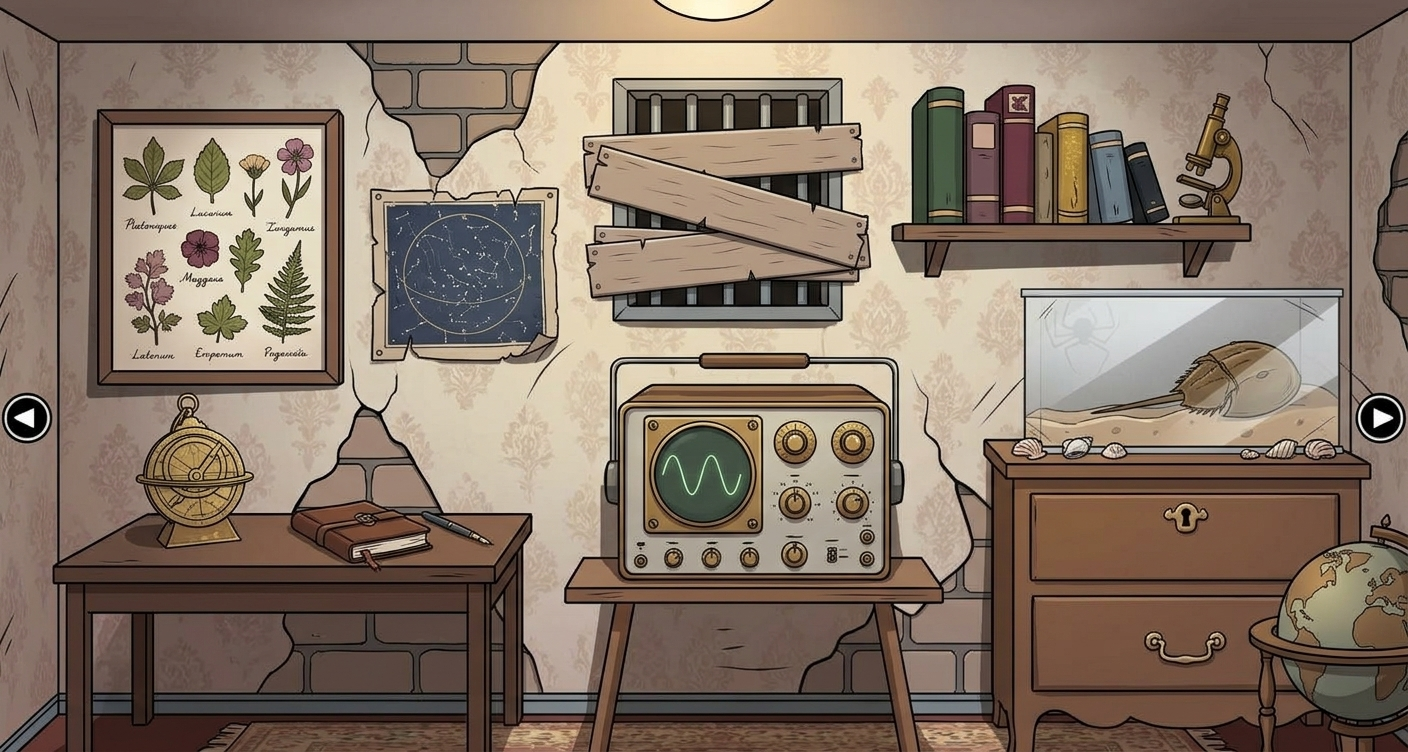
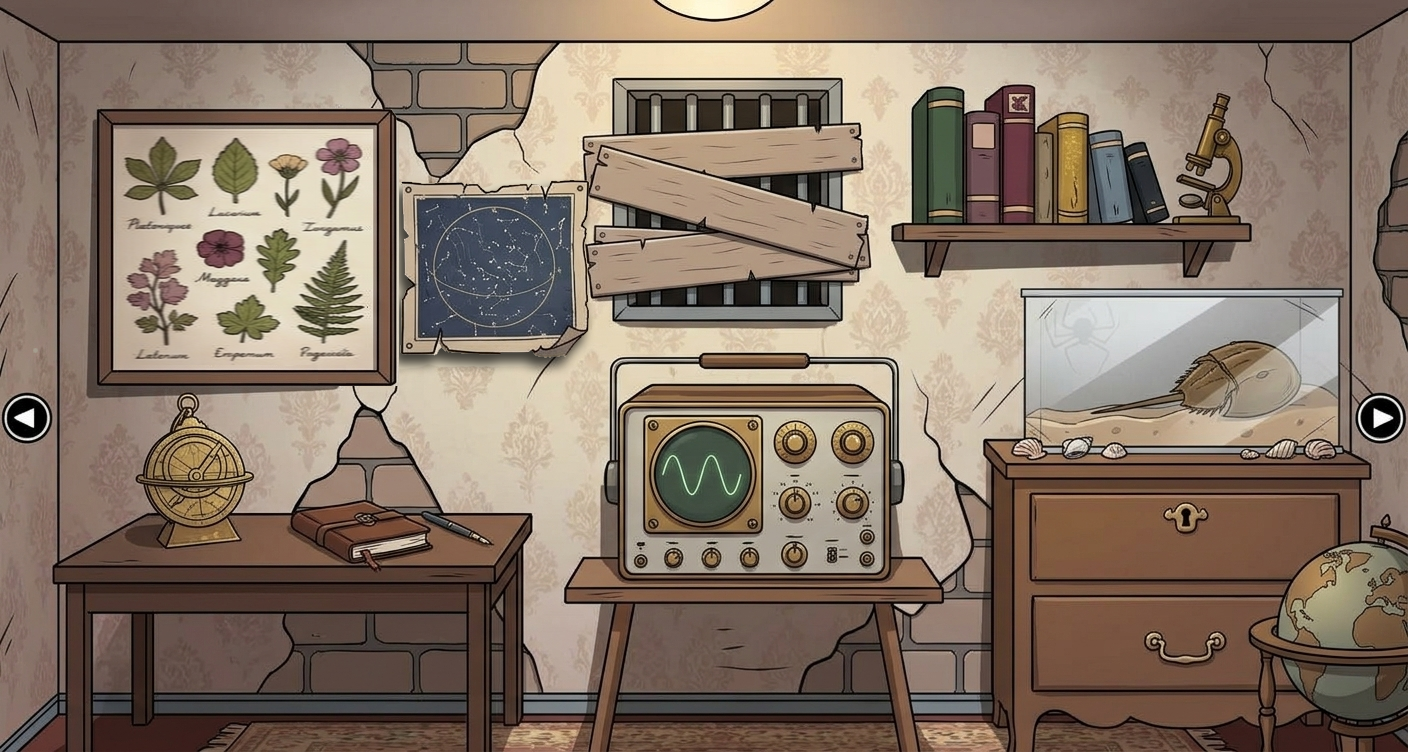
Add files via upload

Changed region(s): [[0.0938, 0.1223, 0.4375, 0.5199]]

diff --git a/JogoEscape-main/scripts/puzzleC1.js b/JogoEscape-main/scripts/puzzleC1.js
@@ -1,46 +1,82 @@
 const canvas = document.getElementById("canvas");
-    const ctx = canvas.getContext("2d");
+const ctx = canvas.getContext("2d");
 
-    // Altura individual das três ondas
-    const alturas = [0, 0, 0];
+const botoes = [
+  document.getElementById("btn1"),
+  document.getElementById("btn2"),
+  document.getElementById("btn3")
+];
 
-    // Posição horizontal de cada onda
-    const centros = [150, 400, 650];
+const imagensBotoes = [
+  document.getElementById("btn1img"),
+  document.getElementById("btn2img"),
+  document.getElementById("btn3img")
+];
 
-    const largura = 65;
-    const linhaBase = 150;
+const alturas = [0, 0, 0];
+const centros = [150, 400, 650];
+const largura = 65;
+const linhaBase = 150;
 
-    function desenhar() {
-      ctx.clearRect(0, 0, canvas.width, canvas.height);
+function desenhar() {
+  ctx.clearRect(0, 0, canvas.width, canvas.height);
+  ctx.beginPath();
 
-      ctx.beginPath();
+  for (let x = 0; x <= canvas.width; x++) {
+    let y = linhaBase;
 
-      for (let x = 0; x <= canvas.width; x++) {
-        let y = linhaBase;
-
-        for (let i = 0; i < 3; i++) {
-          let distancia = (x - centros[i]) / largura;
-
-          y -= alturas[i] * Math.exp(-distancia * distancia);
-          // y += alturas[i] * Math.exp(-distancia * distancia);
-          // DIMINUIR O VALE!!!!!!!!!!!!!!!!!!!
-        }
-
-        if (x === 0) {
-          ctx.moveTo(x, y);
-        } else {
-          ctx.lineTo(x, y);
-        }
-      }
-
-      ctx.strokeStyle = "#bcf8c2";
-      ctx.lineWidth = 3;
-      ctx.stroke();
+    for (let i = 0; i < alturas.length; i++) {
+      const distancia = (x - centros[i]) / largura;
+      y -= alturas[i] * Math.exp(-distancia * distancia);
     }
 
-    function aumentar(indice) {
-      alturas[indice] = Math.min(180, alturas[indice] + 20);
-      desenhar();
+    if (x === 0) {
+      ctx.moveTo(x, y);
+    } else {
+      ctx.lineTo(x, y);
     }
+  }
 
-    desenhar();
+  ctx.strokeStyle = "#bcf8c2";
+  ctx.lineWidth = 3;
+  ctx.stroke();
+}
+
+function ajustarOnda(indice, direcao) {
+  alturas[indice] = Math.max(0, Math.min(180, alturas[indice] + direcao * 20));
+  desenhar();
+}
+
+function lidarComClique(indice, event) {
+  const botao = botoes[indice];
+  const imagem = imagensBotoes[indice];
+  const cliqueY = event.clientY - botao.getBoundingClientRect().top;
+  const alturaBotao = botao.getBoundingClientRect().height;
+  const posicaoAtual = parseInt(imagem.style.top, 10);
+
+  if (cliqueY < alturaBotao / 3) {
+    if (imagem.style.top != "405px") {
+      imagem.style.top = `${Math.max(405, posicaoAtual - 25)}px`;
+      ajustarOnda(indice, 1);
+    }
+    
+  } else if (cliqueY >= (alturaBotao / 3) * 2) {
+    if (imagem.style.top != "505px") {
+      imagem.style.top = `${Math.min(505, posicaoAtual + 25)}px`;
+      ajustarOnda(indice, -1);
+    }
+    
+  }
+}
+
+botoes.forEach((botao, indice) => {
+  botao.addEventListener("click", event => lidarComClique(indice, event));
+});
+
+// Volta para a página anterior
+function backGame() {
+    window.history.back();
+}
+
+
+desenhar();

diff --git a/JogoEscape-main/puzzleC1.html b/JogoEscape-main/puzzleC1.html
@@ -1,4 +1,3 @@
-<!DOCTYPE html>
 <html lang="pt-br">
 <head>
     <meta charset="UTF-8">
@@ -19,10 +18,10 @@
       
     }
 
-    button {
+    .botroes button {
       position: absolute;
       padding: 12px 20px;
-      z-index: 1;
+      z-index: 2;
       top: 20px;
       width: 50px;
       height: 150px;
@@ -30,22 +29,39 @@
       cursor: pointer;
       opacity: 0;
     }
+    .botaoc1 {
+      position: absolute;
+      padding: 12px 20px;
+      z-index: 1;
+      top: 30px;
+      width: 40px;
+      height: 35px;
+      margin: 10px;
+      cursor: pointer;
+      
+    }
   </style>
 </head>
 <body>
     <div class="game">
         
-        <img id="cenario1" src="images/puzzleC1/puzzleC1_background.png" alt="Imagem do jogo" oncontextmenu="return false;">
+        <img id="cenario1" src="images/puzzleC1/puzzleC1_background (1).png" alt="Imagem do jogo" oncontextmenu="return false;">
         
         <canvas id="canvas" width="800" height="300"></canvas>
-        <div>
-        <button style="top: 410px; left: 250px;" onclick="aumentar(0)">Onda 1</button>
-        <button style="top: 410px; left: 360px;"onclick="aumentar(1)">Onda 2</button>
-        <button style="top: 410px; left: 460px;" onclick="aumentar(2)">Onda 3</button>
+        <div class="botroes">
+         
+        <button id="btn1" style="top: 410px; left: 250px;">Onda 1</button>
+        <button id="btn2" style="top: 410px; left: 360px;">Onda 2</button>
+        <button id="btn3" style="top: 410px; left: 460px;">Onda 3</button>
+
+        <img id="btn1img" class="botaoc1" style="top: 505px; left: 235px;" src="images/puzzleC1/botaoC1.png" alt="botao">
+        <img id="btn2img" class="botaoc1" style="top: 505px; left: 340px;" src="images/puzzleC1/botaoC1.png" alt="botao">
+        <img id="btn3img" class="botaoc1" style="top: 505px; left: 440px;" src="images/puzzleC1/botaoC1.png" alt="botao">
+        
         </div>
 
         <button class="scenario-button backgame" type="button" aria-label="Cenário anterior" onclick="backGame()">&#8249;</button>
     </div>
-    <script src="scripts/puzzleC1.js. "></script>
+    <script src="scripts/puzzleC1.js"></script>
 </body>
 </html>

diff --git a/JogoEscape-main/scripts/game.js b/JogoEscape-main/scripts/game.js
@@ -1,5 +1,6 @@
 const gameContent = document.querySelector(".game-content");
-const scenarios = Array.from(gameContent.querySelectorAll("img"));
+const scenarios = Array.from(gameContent.querySelectorAll(".scenario-slide"));
+const scenarioImages = scenarios.map((scenario) => scenario.querySelector("img"));
 const previousButton = document.querySelector(".scenario-previous");
 const nextButton = document.querySelector(".scenario-next");
 let currentScenario = 0;
@@ -12,6 +13,11 @@ function showScenario(index) {
     });
     previousButton.disabled = currentScenario === 0;
     nextButton.disabled = currentScenario === scenarios.length - 1;
+}
+
+function derrubar() {
+    const element = document.getElementById('flores');
+    element.classList.add('cair');
 }
 
 previousButton.addEventListener("click", () => showScenario(currentScenario - 1));
@@ -34,6 +40,8 @@ const puzeD1 = document.querySelector("puzzle_D1")
 function darZoomNoObjeto(x, y, c) {
   let alf = "A";
 
+  
+
   if (c == 1) {
     alf = "B";
   } else if (c == 2) {
@@ -42,20 +50,18 @@ function darZoomNoObjeto(x, y, c) {
     alf = "D";
   }
     // Define o ponto focal do zoom nas coordenadas exatas passadas pelo botão
-  scenarios[c].style.transformOrigin = `${x} ${y}`;
+  scenarioImages[c].style.transformOrigin = `${x} ${y}`;
   
   // Aplica o zoom (mude para 3 ou 4 se quiser aproximar ainda mais)
-  scenarios[c].style.transform = "scale(2.5)";
+  scenarioImages[c].style.transform = "scale(2.5)";
   
   // 2. Espera 200 milissegundos (0.2 segundos) antes de dar o zoom físico
   setTimeout(function() {
     window.location.href = "puzzle" + alf + "1.html";
-    //scenarios[c].style.transform = "scale(1)";
-    //scenarios[c].style.transformOrigin = "center center";
   }, 1000);
   setTimeout(function() {
-    scenarios[c].style.transform = "scale(1)";
-    scenarios[c].style.transformOrigin = "center center";
+    scenarioImages[c].style.transform = "scale(1)";
+    scenarioImages[c].style.transformOrigin = "center center";
   }, 1500);
   // Retorna a imagem ao tamanho normal centralizado
   

diff --git a/JogoEscape-main/style.css b/JogoEscape-main/style.css
@@ -34,6 +34,25 @@ body {
     
 }
 
+#moldura {
+    position: absolute;
+    z-index: 1;
+    top: 17%;
+    left: 3%;
+    width: 210px;
+    height: 190px;
+    object-fit: cover;
+}
+
+.flores {
+    position: absolute;
+    z-index: 1;
+    top: 17%;
+    left: 3%;
+    width: 210px;
+    height: 190px;
+    object-fit: cover;
+}
 
 .game-content::-webkit-scrollbar {
     display: none;
@@ -79,6 +98,10 @@ body {
 
 .sticker.cair {
     animation: cairsticker 0.5s ease-in forwards;
+}
+
+.flores.cair {
+    animation: cairflores 1.2s ease-in forwards;
 }
 
 
@@ -139,6 +162,16 @@ body {
     width: 40px;
     height: 40px;
     background-color: #1687ff6b;
+}
+
+.engrenagem {
+    position: absolute;
+    z-index: 1;
+    top: 60%;
+    right: 5%;
+    width: 100%;
+    height: 100%px;
+    
 }
 
 .puzzle_A1 {
@@ -253,5 +286,14 @@ body {
     100% {
         top: 120%;
         rotate: 40deg;
+    }
+}
+
+@keyframes cairflores {
+    100% {
+        top: 85%;
+        left: 10%;
+        transform: rotateY(120deg);
+        rotate: 90deg;
     }
 }

diff --git a/JogoEscape-main/puzzleD1.html b/JogoEscape-main/puzzleD1.html
@@ -1,0 +1,19 @@
+<!DOCTYPE html>
+<html lang="en">
+<head>
+    <meta charset="UTF-8">
+    <meta name="viewport" content="width=device-width, initial-scale=1.0">
+    <title>PuzzleD1</title>
+    <link rel="stylesheet" href="style.css">
+</head>
+<body>
+    <div class="game">     
+        <img style="width: 100%; height: 100%;" id="cenario1" src="images/puzzleD1/puzzleD1_background (1).png" alt="Imagem do jogo" oncontextmenu="return false;">
+        
+        <img style="top: 100px; left: 330px; width: 300px; height: 300px;" class="engrenagem" id="roleta" src="images/puzzleD1/roleta_D1.png" alt="Imagem do jogo" oncontextmenu="return false;">
+        <button class="scenario-button backgame" type="button" aria-label="Cenário anterior" onclick="backGame()">&#8249;</button>
+    
+    </div>
+    <script src="scripts/puzzleD1.js"></script>
+</body>
+</html>

diff --git a/JogoEscape-main/index.html b/JogoEscape-main/index.html
@@ -4,11 +4,11 @@
     <meta charset="UTF-8">
     <meta name="viewport" content="width=device-width, initial-scale=1.0">
     <title>Jogo</title>
-    <link rel="stylesheet" href="inicio.css">
+    <link rel="stylesheet" href="style.css">
 </head>
 <body>
     <div class="inicio">
-        <div class="titulo"><h1>Bem vindo ao Jogo!</h1></div>
+        <div class="titulo"><h1>Mateus, usa as tag HEader, footer e tals para fazer um menu do jeito que o bigolin gosta</h1></div>
         <button class="start-button" onclick="startGame()">Iniciar Jogo</button>
 
     </div>

diff --git a/JogoEscape-main/game.html b/JogoEscape-main/game.html
@@ -23,6 +23,8 @@
             <!--C-->
             <div class="scenario-slide">
                 <img id="cenario3" src="images/cenario3.png" alt="Imagem do jogo">
+                <img id="moldura" src="images/molduramontanha.png" alt="Imagem do jogo">
+                <img onClick="derrubar()" class="flores"  id="flores" src="images/flores.png" alt="Imagem do jogo">
                 <div class="scenario-square puzzle_C1" aria-hidden="true" onclick="darZoomNoObjeto('55%', '70%', 2)"></div>
             </div>
             <!--D-->
